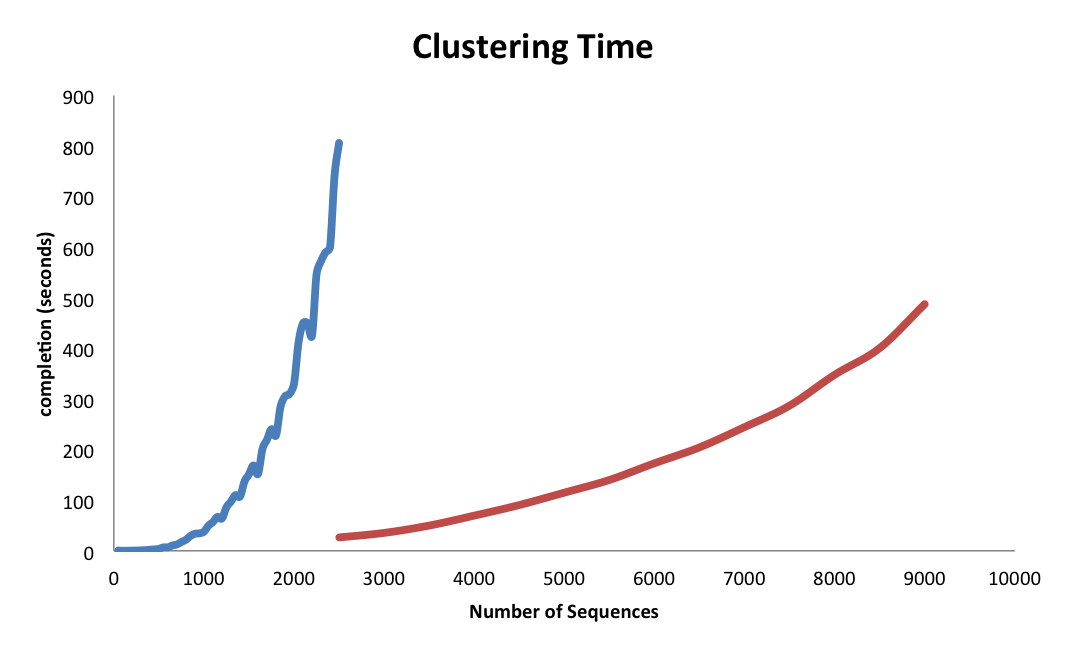
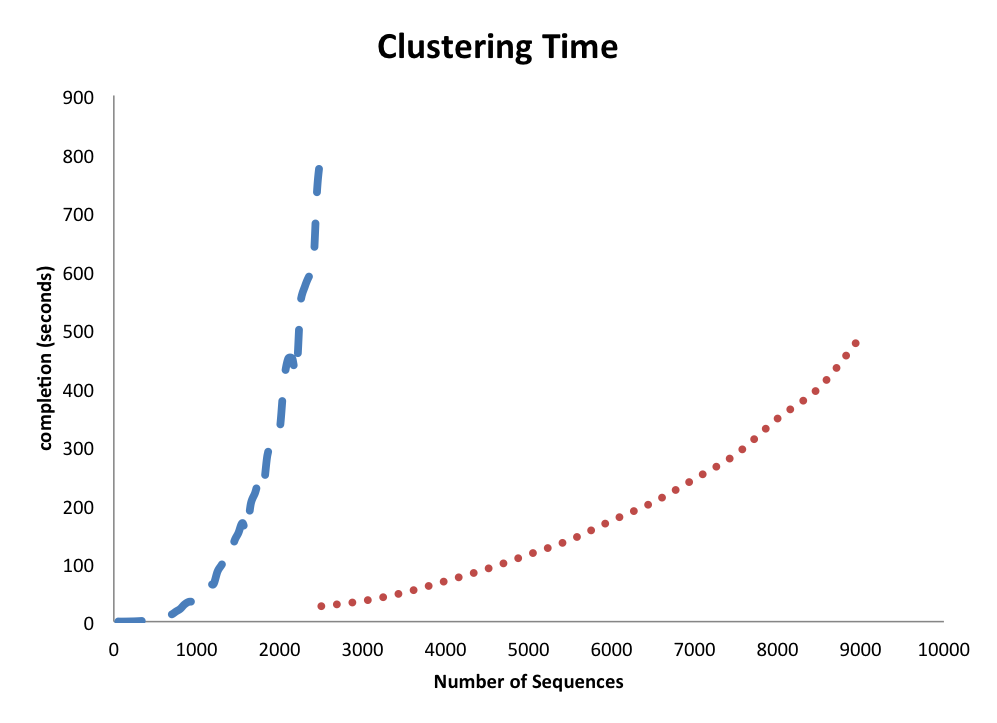
updates

diff --git a/chapter2.tex b/chapter2.tex
@@ -74,7 +74,7 @@ However over time and through various purification events adaptive mutations acc
 Notice that the two clades are totally free from each other's periodic selection diversity quashing~\cite{cohan2007systematics}.
 This is an important feature of separate ecotypes, because we can later observe the differences acquired from separate evolutionary histories.
 
-Theory and empirical evidence hints that these boundaries correlate to ecological niche, based on empirical studies where environmental samples were collected and statistically correlated to their putative ecotypes\cite{cohan2007systematics, cohan2006sequence, ward2006cyanobacterial, cohan2006toward}.
+Theory and empirical evidence hints that these boundaries correlate to ecological niche, based on empirical studies where environmental samples were collected and statistically correlated to their putative ecotypes~\cite{cohan2007systematics, cohan2006sequence, ward2006cyanobacterial, cohan2006toward}.
 To identify the system's fundamental elements takes three steps.
 First, observe and characterize the community's evolutionary history.
 Second, simulate evolutionary history as hypotheses of various descriptive parameters, resulting in a most likely parametric characterization of observed history.
@@ -91,8 +91,8 @@ And the bacterial diversity sampled is going through various stages of periodic 
 
 \begin{figure}[h!]
 \centering
-\includegraphics[scale=1.5]{images/TreeFlare-CH2}
-\caption[Observed and simulated evolutionary histories.]{Clade sequence diversity, for the \emph{B. subtilis-B. licheniformis} clade, for gene rpoB. A set of 88 sequences from the clade was binned into clusters with different levels of minimum pairwise identity. The log-linear portion of the curve to the left of \textasciitilde0.99 identity indicates a constant net rate of ecotype formation; the flair of diversity to the right of \textasciitilde0.99 indicates the facile sequence diversity within ecotypes~\cite{acinas2004fine}. The ecotype simulation analysis yielded estimates of the parameters for periodic selection rate, net ecotype formation rate, rate of genetic drift, and the number of ecotypes, and the estimated quartet of parameter values generated the ``model'' values shown~\cite{koeppel2008identifying}. (reprinted from \protect\cite{cohan2007systematics}).}
+\includegraphics[scale=0.45]{images/TreeFlare-CH2}
+\caption[Illustrating end of tree diversity flare.]{Illustrating end of tree diversity flare. Steady accumulation of diversity leads to shallow sequence identity slope, and burst of diversity towards the end of the tree steepen the slope (reprinted from~\protect\cite{fredImage}).}
 \label{fig:TreeFlare}
 \end{figure}
 
@@ -147,7 +147,14 @@ By finding close approximations of $npop$, $\sigma$, and $\Omega$, we can observ
 The simulation aspect of ES begins with a process of backwards simulation that stochastically produces a phylogenetic representation of the history of the community.
 Think of a node that represents each input organism and sequence from the present time (i.e., number of nodes equals number of input sequences), and the ancestral lineage of these organisms coalesce (due to PS, EF, or D; indicated by gray circles in Figure \ref{fig:SpeciationGraph}) as ES steps backward in time.
 Backwards simulation serves as a topological scaffold of history.
-Then the forward simulation produces corresponding mutational nucleotide substitution throughout the history of the clade and resulting simulated contemporary organisms are binned, and binning is compared to binning of actual organisms sampled from nature.
+Then the forward simulation produces corresponding mutational nucleotide substitution throughout the history of the clade and resulting simulated contemporary organisms are binned, and binning is compared to binning of actual organisms sampled from nature (see Figure~\ref{fig:TreeCompare}).
+
+\begin{figure}[h!]
+\centering
+\includegraphics[scale=1.5]{images/TreeCompare-CH2}
+\caption[Observed and simulated evolutionary histories.]{Clade sequence diversity, for the \emph{B. subtilis-B. licheniformis} clade, for gene rpoB. A set of 88 sequences from the clade was binned into clusters with different levels of minimum pairwise identity. The log-linear portion of the curve to the left of \textasciitilde0.99 identity indicates a constant net rate of ecotype formation; the flair of diversity to the right of \textasciitilde0.99 indicates the facile sequence diversity within ecotypes~\cite{acinas2004fine}. The ecotype simulation analysis yielded estimates of the parameters for periodic selection rate, net ecotype formation rate, rate of genetic drift, and the number of ecotypes, and the estimated quartet of parameter values generated the ``model'' values shown~\cite{koeppel2008identifying} (reprinted from \protect\cite{cohan2007systematics}).}
+\label{fig:TreeCompare}
+\end{figure}
 
 Initially a set of $v$ contemporary organisms (representing those sampled from the environment) are randomly distributed according to broken-stick distribution among $n$ ecotypes (in the case of Figure \ref{fig:SpeciationGraph}, $v = 14$ and $n = 3$).
 In broken-stick distribution we start with a single giant ecotype then continue to randomly split it up until we have the designated $npop$ ecotypes.
@@ -173,7 +180,7 @@ This continues until we reach the contemporary organism nodes, resulting in a ma
 Now ES can conduct the same complete-linkage clustering analysis briefly described in the previous section to illustrate a sequence identity graph, which can be compared to the observed sequence identity graph.
 If we place our simulated sequence identity graph line on top of the observed sequence identity graph, at each bin level we can see whether the simulated line matches the observed line within a pre-determined factor (or precision factor).
 Success is determined by whether or not these two lines match within this factor of closeness, of which there are six: 5x, 2x, 1.5x, 1.25x, 1.10x, 1.05x.
-If the simulation and observed graphs are too far apart, ES records the repetition as a failure.
+If the simulation and observed graphs are too far apart (see Figure~\ref{fig:TreeCompare} on page~\pageref{fig:TreeCompare}), ES records the repetition as a failure.
 Based on many (i.e., in the hundreds or thousands) replicate runs, each one evaluated for success or failure, we gather information to form a maximum likelihood estimation of $npop$, $\Omega$, $\sigma$, and d (in the future I will not mention drift, since it happens to be so rare). However, how does one decide on different parameter choices to test?
 
 \subsection*{Bruteforce and Hillclimbing}
@@ -181,8 +188,8 @@ Utilizing simulations explained in the previous section ES conducts a search for
 To search as much of that space as possible we lay a grid of points over the landscape of likelihoods where each point is a simulation of many hundreds of repetitions.
 By running those tests we begin to observe a rough sketch of hills and valleys of the parameters.
 The even distribution of points with a lack of insight is referred to as Bruteforce (see Figure \ref{fig:Flow}a).
-Bruteforce outputs a range of parameters that should contain the global maximum likelihood.
-The range of likely parameters is then passed through an optimization program known as Hillclimbing (see Figure \ref{fig:Flow}b).
+The beauty of Bruteforce is that it outputs a range of parameters that contains the global maximum likelihood.
+The range of likely parameters is then passed through an optimization program known as Hillclimbing (see Figure \ref{fig:Flow}b), which finds local maximums (i.e., the global maximum within our Bruteforce parameter ranges).
 
 Hillclimbing is a downhill-simplex or Nelder-Mead approach to optimization.
 A chosen parameter solution is more thoroughly tested (i.e., with 10,000 replicates), and likelihoods are calculated for the six precision values (i.e., 5x, 2x, etc.).
@@ -204,7 +211,7 @@ With the most likely estimations of $npop$, $\sigma$, and $\Omega$ (remember tha
 Demarcation uses the user input phylogeny and the maximum likelihood parameters produced from Hillclimbing optimization (see Figure \ref{fig:Flow}B - C).
 ES comes with a manual demarcator, however for my work we used an automatic demarcator that uses a demarcation confidence interval program.
 
-The auto-demarcator starts at the closest common ancestor and recursively runs confidence interval tests for $npop$ on subtrees.
+The automatic demarcator starts at the closest common ancestor and recursively runs confidence interval tests for $npop$ on subtrees.
 At each level the overall Hillclimbing results are used to run the demarcation confidence interval program which checks parameter likelihoods in a loop that decreases $npop$ by a step value until it is either below 1, beneath a pre-determined likelihood or fails a likelihood ratio test.
 The resulting $npop$ from demarcation confidence interval is the 95\% likely lower bound $npop$.
 If this $npop$ equals 1 then we demarcate the sequences of the subtree as a single ecotype.

diff --git a/chapter3.tex b/chapter3.tex
@@ -116,7 +116,7 @@ The library includes complete-linkage clustering that runs in $O(n^2)$ (for a gr
 \begin{figure}[h!]
 \centering
 \includegraphics[scale=0.75]{images/FastComplete-CH3}
-\caption[Complete linkage clustering speed comparison between popular implementations.]{The colored bands show maximum and minimum time over a variety of data sets. The average is plotted as a solid line. The synthetic data sets are samples drawn in an iid. manner from various mixtures of Gaussian distributions in Euclidean space of various dimensions.
+\caption[Complete linkage clustering speed comparison between popular implementations.]{Different bands show maximum and minimum time over a variety of data sets. The average is plotted as a solid line. The synthetic data sets are samples drawn in an iid. manner from various mixtures of Gaussian distributions in Euclidean space of various dimensions.
 %The results were obtained on a PC with an Intel dual-core CPU T7500 with 2.2 GHz clock speed and 4GB of RAM. The operating system was Ubuntu 11.04 64-bit (Ubuntu 10.04 64-bit for Matlab R2010a). R version: 2.13.0, fastcluster version: 1.1.7, flashClust version: 1.01, Python version: 2.7.1, NumPy version 1.5.1, SciPy version: 0.8.0.
 (reprinted from \protect\cite{FastClust})}
 \label{fig:FastClustComparison}
@@ -127,7 +127,7 @@ I quickly linked up fastcluster to ES2, replacing our naive binning implementati
 \begin{figure}[h!]
 \centering
 \includegraphics[scale=.8]{images/FastVsNaive-CH3}
-\caption[Time comparison of fastcluster versus our naive implementation of complete-linkage clustering.]{Times comparison of fastcluster (red) versus our naive (blue) implementation of complete-linkage clustering. [REMOVE COLOR!]}
+\caption[Time comparison of fastcluster versus our naive implementation of complete-linkage clustering.]{Time comparison of fastcluster (dotted) versus our naive (dashed) implementation of complete-linkage clustering.}
 \label{fig:FastVsNaive}
 \end{figure}
 

diff --git a/chapter1.tex b/chapter1.tex
@@ -32,6 +32,7 @@ Thus, within a named species established by antiquated methods, one may find dis
 Comprehensive study is impossible.
 
 Fortunately, however, organisms from every known community appear to cluster into discrete ecologically interchangeable individuals~\cite{cohan2007systematics}.
+Clustering is a universal feature at all levels of diversity, owning to different rates of survival and extinction.
 Our envisioned demarcation algorithm would be capable of identifying putative clusters of ecologically distinct organisms within named bacterial clades.
 While accuracy is of utmost importance, due to the large numbers of potential bacterial species we would appreciate an efficient demarcation algorithm.
 
